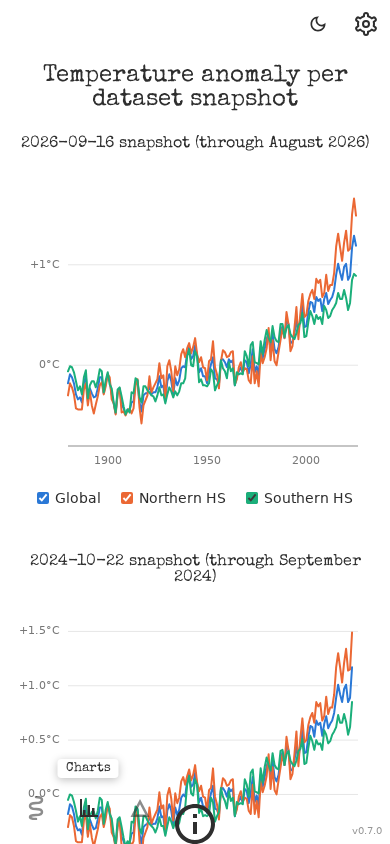
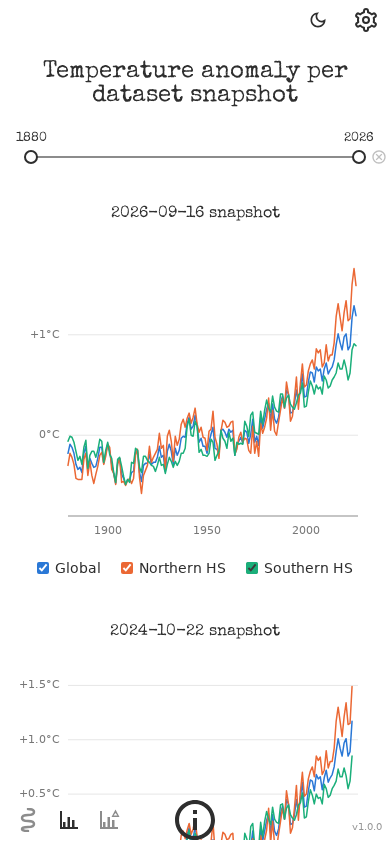
docs: README revision and scripted screenshots; version 1.0.0 (v1.0.0)
Climate Helix 1.0. The README gets new light-theme screenshots (one of
What's new), a What's new and changelog section, a Development section,
and corrections of outdated statements about the data retrieval, the
settings menus and the CI workflow.

The screenshots are now taken by a Playwright script (npm run screenshots,
playwright.screenshots.config.ts) from a production build with the full
helix mesh. A new screenshots skill says when to retake them; the release
skill points to it and gains a step for GitHub releases of major and
minor versions, after the owner's approval and a push.

diff --git a/screenshots/readme.spec.ts b/screenshots/readme.spec.ts
@@ -1,0 +1,63 @@
+import { expect, test, type Page } from '@playwright/test';
+import { APP_VERSION, openApp, openSettings, switchScene, withStoredState } from '../e2e/app';
+
+// The README screenshots, see playwright.screenshots.config.ts. A phone-sized
+// viewport, like the app is mostly used; the legend one is wider for the
+// settings panel.
+const PHONE = { width: 390, height: 844 };
+const IMAGES = 'src/images';
+
+/** Lets the helix and the charts finish drawing, with the pointer out of the way (no tooltips). */
+async function settle(page: Page): Promise<void> {
+    await page.mouse.move(0, 0);
+    await page.waitForTimeout(1000);
+}
+
+async function shoot(page: Page, name: string): Promise<void> {
+    await settle(page);
+    await page.screenshot({ path: `${IMAGES}/${name}.png` });
+}
+
+test.beforeEach(async ({ page }) => {
+    // A returning user who has seen this version, so What's new stays closed.
+    await withStoredState(page, {});
+});
+
+test('helix', async ({ page }) => {
+    await page.setViewportSize(PHONE);
+    await openApp(page);
+    await shoot(page, 'climate-helix');
+});
+
+test('legend settings', async ({ page }) => {
+    await page.setViewportSize({ width: 1200, height: 700 });
+    await openApp(page);
+    await openSettings(page);
+    const gui = page.locator('#gui');
+    await gui.locator('.lil-title', { hasText: /^View$/ }).click();
+    await gui.locator('.lil-title', { hasText: /^Legend$/ }).click();
+    await shoot(page, 'climate-helix-legend');
+});
+
+test('charts', async ({ page }) => {
+    await page.setViewportSize(PHONE);
+    await openApp(page);
+    await switchScene(page, 'Charts');
+    await shoot(page, 'climate-helix-charts');
+});
+
+test('diff', async ({ page }) => {
+    await page.setViewportSize(PHONE);
+    await openApp(page);
+    await switchScene(page, 'Diff');
+    await shoot(page, 'climate-helix-diff');
+});
+
+test('what\'s new', async ({ page }) => {
+    await page.setViewportSize(PHONE);
+    // Overrides the version seen: someone updating from v0.11.1.
+    await page.addInitScript(() => localStorage.setItem('climate-helix.state', JSON.stringify({ version: 1, lastSeenVersion: '0.11.1' })));
+    await openApp(page);
+    await expect(page.locator('.changelog h2').first()).toContainText(`v${APP_VERSION}`);
+    await shoot(page, 'climate-helix-whats-new');
+});

diff --git a/playwright.screenshots.config.ts b/playwright.screenshots.config.ts
@@ -1,0 +1,28 @@
+import { defineConfig, devices } from '@playwright/test';
+
+const PORT = 4181;
+
+/**
+ * Takes the README screenshots in src/images/ (`npm run screenshots`), in the
+ * light theme, from a production build with the full helix mesh. Not a test:
+ * the images are written over the committed ones, to be reviewed before
+ * committing them.
+ */
+export default defineConfig({
+    testDir: 'screenshots',
+    workers: 1,
+    reporter: 'list',
+    timeout: 60_000,
+    use: {
+        ...devices['Desktop Chrome'],
+        baseURL: `http://localhost:${PORT}/climate-helix/`,
+        colorScheme: 'light',
+        deviceScaleFactor: 1,
+    },
+    webServer: {
+        command: `npm run build && VITE_HTTPS=false npx vite preview --port ${PORT} --strictPort`,
+        url: `http://localhost:${PORT}/climate-helix/`,
+        reuseExistingServer: false,
+        timeout: 120_000,
+    },
+});

diff --git a/README.md b/README.md
@@ -4,7 +4,7 @@ This HTML-5 application features a 3D climate helix similar to the one shown in 
 
 Available on [Github Pages](https://mkuehne-git.github.io/climate-helix/). The application can be installed as PWA (tested on Android).
 
-The climate helix uses data from [NASA, Goddard Space Flight Center](https://data.giss.nasa.gov/gistemp/) retrieved in May-2023. You can view data for the
+The climate helix uses data from [NASA, Goddard Space Flight Center](https://data.giss.nasa.gov/gistemp/), in three retrievals (see [Dataset selector](#dataset-selector)). You can view data for the
 
 * Northern Hemisphere,
 * Southern Hemisphere,
@@ -14,7 +14,7 @@ The data starts in 1880 and, in the newest bundled snapshot, runs until August 2
 
 The use of [TrackballControls](https://threejs.org/docs/#examples/en/controls/TrackballControls) makes it possible to easily navigate through the scene, by moving around a virtual camera: drag with the left mouse button (or one finger) to rotate the helix freely in any direction, including end over end, zoom with the mouse wheel (or a pinch), and pan with the right mouse button (or two fingers). A double-click returns to the initial view. The ***View > Navigation*** section of the settings panel sets the **Rotation speed** and **Inertia**: with inertia, the helix keeps turning for a moment after a drag; without it, it stops with the pointer.
 
-The controller UI (Icon in the upper right corner) provides options to configure the image. Not only can you choose, which region of the world you want to be visualized. With the ***View*** menu item you can toggle the x/y/z axes, change the coloring, and adjust some parameters controlling the geometry. With the ***Capture*** menu you can create images and download them to your computer.
+The controller UI (Icon in the upper right corner) provides options to configure the image. Not only can you choose, which region of the world you want to be visualized. With the ***View*** menu item you can show the year range slider and the legend axes, change the colors, and adjust the geometry and navigation; the ***Animation*** menu sets up the creation animation. With the ***Screen capture*** menu you can create images and download them to your computer.
 
 # Dataset selector
 
@@ -32,11 +32,19 @@ The Play/Pause button in the top-left corner of the Helix view grows the helix m
 
 The app remembers your settings and where you left off: the dataset, region and year range, the ***View*** and ***Animation*** settings, changed helix colors, the theme (once you switch it; until then it follows your system), the active view, the camera angle and zoom, the Diff view's baseline, and the chart checkboxes. They are kept in your browser's Local Storage and never leave your device. When a newer data snapshot ships, the app opens on it instead of the snapshot you last chose. **Restore defaults** in the settings panel forgets all of this and reloads the app.
 
+# What's new and changelog
+
+![Climate-helix What's new](./src/images/climate-helix-whats-new.png)
+
+The first time the app opens after an update, it shows what's new since the version you used last. Versions without a visible change (tests, documentation) are left out, and the **Full changelog** button shows every version. It appears once per version: not again after a reload, not after **Restore defaults**, and not on your very first visit.
+
+Click the version number in the lower right corner to see the full changelog at any time. Each version lists its date and links to its commit on GitHub. Close it, like the imprint, with the X button at the bottom or with Escape. The changelog is the same as [CHANGELOG.md](CHANGELOG.md).
+
 # Legend
 
 ![Climate-helix with legend](./src/images/climate-helix-legend.png)
 
-The ***View > Legend*** section in the settings panel adds optional reference axes around the helix: a **Year axis** marking the year range along the side, a **Temperature axis** of concentric rings labeling anomaly values from -1.0°C to +1.5°C, and a **Month axis** labeling Jan/Apr/Jul/Oct around the outer rim. The number of year ticks and temperature rings shown is configurable.
+The ***View > Legend*** section in the settings panel (shown open above) adds optional reference axes around the helix: a **Year axis** marking the year range along the side, a **Temperature axis** of concentric rings labeling anomaly values from -1.0°C to +1.5°C, and a **Month axis** labeling Jan/Apr/Jul/Oct around the outer rim. The number of year ticks and temperature rings shown is configurable.
 
 # Charts
 
@@ -58,7 +66,7 @@ Three icon-buttons at the lower-left switch between equal peer scenes: **Helix**
 |---|---|
 |```h```, ```H```|Toggle visibility of control panel|
 |```Alt + s```|Take screen capture|
-|```Esc```|Close imprint dialog|
+|```Esc```|Close the imprint, the changelog or What's new|
 |```a``` + drag|Rotate the helix (like the left mouse button)|
 |```s``` + drag|Zoom (like the mouse wheel)|
 |```d``` + drag|Pan (like the right mouse button)|
@@ -66,7 +74,7 @@ Three icon-buttons at the lower-left switch between equal peer scenes: **Helix**
 
 # PWA version updates
 
-The app is shipped as a PWA and checks for newer versions after installation. When a new build is detected, the app asks for confirmation before reloading and applying the update. This is handled through the service worker lifecycle and avoids unexpected restarts during normal use.
+The app is shipped as a PWA and checks for newer versions after installation. When a new build is detected, the app asks for confirmation before reloading and applying the update. After the reload, it shows what's new in the updated version. This is handled through the service worker lifecycle and avoids unexpected restarts during normal use.
 
 If you installed the app from a supported browser such as Chrome on Android, the settings menu also includes a manual **Check for updates** action. This triggers a service worker refresh check and shows a short status message when the app is already up to date or when a new version is available.
 
@@ -74,11 +82,27 @@ If you installed the app from a supported browser such as Chrome on Android, the
 
 Dependency updates are handled through GitHub Dependabot for npm packages. The repository is configured to check for weekly updates, keep runtime and build-tooling packages grouped, and keep the update noise focused on the packages that matter most for the app.
 
-Every dependency-related pull request is validated in GitHub Actions through a dedicated workflow that installs dependencies with `npm ci` and runs the production build with `npm run build`. This keeps routine upgrade PRs from landing without a fresh compile check.
+Every push to `main` and every pull request, including Dependabot's, runs the CI workflow in GitHub Actions: it installs the dependencies with `npm ci`, runs the unit tests and a production build on Node 24. It does not deploy. Dependabot also keeps the workflow's GitHub Actions up to date.
 
-The automation is configured in [.github/dependabot.yml](.github/dependabot.yml) and [.github/workflows/dependency-check.yml](.github/workflows/dependency-check.yml).
+The automation is configured in [.github/dependabot.yml](.github/dependabot.yml) and [.github/workflows/ci.yml](.github/workflows/ci.yml).
 
 Major framework upgrades are still reviewed manually, especially for Vite, Three.js and the PWA plugin, because those are the most likely to affect app behavior or service-worker behavior.
+
+# Development
+
+Climate Helix is built with Vite and TypeScript and needs Node.js 24 (see `.nvmrc`).
+
+```sh
+npm install         # install dependencies
+npm run dev         # development server (HTTPS with a self-signed certificate)
+npm run dev:http    # the same over HTTP, if the browser rejects the certificate
+npm run build       # production build in dist/
+npm test            # unit and component tests (Vitest)
+npm run test:e2e    # end-to-end tests in Chromium and Firefox (Playwright)
+npm run screenshots # retake the screenshots in this README (light theme)
+```
+
+The tests are described in [TESTING.md](TESTING.md), the changes of each version in [CHANGELOG.md](CHANGELOG.md).
 
 # References
 

diff --git a/TESTING.md b/TESTING.md
@@ -75,7 +75,7 @@ Playwright, run locally with `npm run test:e2e`. `playwright.config.ts` builds t
 - **4 workers.** More parallel pages mostly cause timeouts; the suite takes about 30 seconds.
 - **Browsers.** Chromium and Firefox, installed once with `npx playwright install chromium firefox`.
 - **Imprint.** The imprint tests need the private `src/imprint-gen.js`; with the CI stub there is no imprint to show.
-- **Helpers.** `e2e/app.ts` opens the app (collecting console errors), switches scenes and moves the year sliders.
+- **Helpers.** `e2e/app.ts` opens the app (collecting console errors), switches scenes and moves the year sliders. `withStoredState()` starts the app with a remembered state that has seen the current version, so What's new stays closed; use it rather than writing `climate-helix.state` directly.
 
 - The app loads without console errors, and the helix title matches the selected dataset and region.
 - Dataset buttons and the region selector redraw the helix; the info panel's end date matches.
@@ -83,6 +83,7 @@ Playwright, run locally with `npm run test:e2e`. `playwright.config.ts` builds t
 - The imprint opens from the settings panel; the fixed X closes it at desktop and phone size, and after a burst of window resizes.
 - The theme switcher changes the theme, and the info panel opens and closes.
 - The service worker registers in the production build.
+- The version label opens the changelog, which closes with the X button and Escape (v0.12.0); What's new appears once after an update, not for new visitors, and leads to the full changelog (v0.13.0).
 
 No screenshot comparisons of the helix: WebGL output varies too much between machines. Screenshot checks for the SVG charts can be added later if needed.
 
@@ -96,5 +97,11 @@ No screenshot comparisons of the helix: WebGL output varies too much between mac
 4. `npm run build`
 
 It replaces the former `dependency-check.yml`, which only ran for dependency changes, on Node 20. It does not deploy: deployment stays a manual `deploy.sh` run (see `ROADMAP.md`). Dependabot groups the test tools (`vitest`, `happy-dom`, `@playwright/test`) in a `test-tooling` group; after a Playwright update, run `npx playwright install chromium firefox` locally.
+
+## README screenshots (v1.0.0)
+
+`npm run screenshots` retakes the images in `src/images/` with Playwright (`playwright.screenshots.config.ts`, specs in `screenshots/`): a production build with the full helix mesh on port 4181, Chromium, light theme, mostly at phone size (390 x 844). They are documentation, not tests, and are not compared with earlier images; review them before committing. The `screenshots` skill (`.claude/skills/screenshots/`) says when to retake them.
+
+## CI and Playwright
 
 Playwright stays local for now. Adding it to CI later means installing only Chromium and Firefox (`npx playwright install --with-deps chromium firefox`), at roughly 1 to 2 extra minutes per run.

diff --git a/.claude/skills/release/SKILL.md b/.claude/skills/release/SKILL.md
@@ -30,7 +30,8 @@ Run in this order and report failures with their output - do not commit around t
 1. `npm test` (Vitest unit and component tests).
 2. `npm run build`. The two pre-existing warnings are expected: the `configLoader: 'native'` notice about `vite.config.ts`, and Node's `ExperimentalWarning`.
 3. `npm run test:e2e` when the change touches the UI, `main.ts`, `Settings.ts`, a scene, CSS, the service worker or `vite.config.ts`. It builds with `VITE_E2E=true` (lighter helix mesh), so **run `npm run build` again afterwards** - otherwise `dist/` holds the test build, and `deploy.sh` could publish it if it ever stops rebuilding.
-4. For visual changes, say what still needs a manual look in a real browser (light and dark theme, phone width, Firefox), as `CLAUDE.md` asks.
+4. For visible UI changes, retake the README screenshots (the `screenshots` skill) if they show the changed part.
+5. For visual changes, say what still needs a manual look in a real browser (light and dark theme, phone width, Firefox), as `CLAUDE.md` asks.
 
 ## 4. Check the working tree
 
@@ -45,3 +46,19 @@ Summarize what the commit contains and ask the project owner for approval. Only 
 - Stage the files by name (no `git add -A`).
 - Message: `type: summary (vX.Y.Z)` with `type` one of `feat`, `fix`, `test`, `docs`, `refactor`, `chore`; then a body explaining what and why; then the co-author trailer from the current session's instructions.
 - Do not push, tag or deploy unless asked. `deploy.sh` force-pushes to GitHub Pages.
+
+## 6. GitHub release (major and minor versions only)
+
+A GitHub release is a page on GitHub attached to a git tag, with release notes and source archives. It deploys nothing: the site comes from the `gh-pages` branch that `deploy.sh` pushes. Every commit here is a version, so releases are made only for major and minor versions (`x.0.0`, `x.y.0`), never for patches.
+
+Creating a release is public, so offer it after the commit and ask the project owner each time. Only after an explicit yes, in this order:
+
+1. **Push** `main` (`git push`). The changelog links to commits on GitHub, and those links return 404 until the commits are pushed.
+2. **Deploy**, if the owner wants the release to match the live site: `deploy.sh`, as described in `CLAUDE.md` - only when asked.
+3. **Release notes**: the version's `CHANGELOG.md` entry without its heading, written to a scratchpad file.
+4. **Create** the tag and the release in one step, on the pushed commit:
+   `gh release create vX.Y.Z --target main --title "Climate Helix X.Y.Z" --notes-file <notes>`
+   This creates the tag `vX.Y.Z` on GitHub; run `git fetch --tags` afterwards to have it locally.
+5. Report the release URL that `gh` prints.
+
+If `gh` is not installed or not logged in (`gh auth status`), say so and give the owner the command instead of working around it.

diff --git a/.claude/skills/screenshots/SKILL.md b/.claude/skills/screenshots/SKILL.md
@@ -1,0 +1,46 @@
+---
+name: screenshots
+description: Retake the Climate Helix README screenshots in src/images/ with Playwright (npm run screenshots), review them and update the README if a view was added or renamed. Use after visible UI changes, before a major or minor release, or when asked to update, refresh or retake screenshots.
+---
+
+# Screenshots
+
+The README shows five screenshots in `src/images/`. `npm run screenshots` retakes them all with Playwright (`playwright.screenshots.config.ts`, specs in `screenshots/readme.spec.ts`), always in the light theme.
+
+| Image | Shows | Viewport |
+| --- | --- | --- |
+| `climate-helix.png` | Helix view, default settings | 390 x 844 |
+| `climate-helix-legend.png` | Helix with the settings panel open at View > Legend | 1200 x 700 |
+| `climate-helix-charts.png` | Charts view | 390 x 844 |
+| `climate-helix-diff.png` | Diff view | 390 x 844 |
+| `climate-helix-whats-new.png` | What's new, as seen when updating from v0.11.1 | 390 x 844 |
+
+## 1. When
+
+- A visible change to a view, control or dialog that a screenshot shows.
+- A version bump that the screenshots should show: the version label is in most images. Retake them **after** updating `package.json`.
+- Not for every patch release: an outdated version label alone is no reason.
+
+## 2. Take
+
+1. Update `package.json` first if the version changes in this commit.
+2. `npm run screenshots`. It builds a production build (full helix mesh, unlike the e2e tests' `VITE_E2E` build), serves it on port 4181 and writes the images over the committed ones. The build leaves `dist/` as a normal production build.
+3. Headless Chromium renders WebGL in software; a run takes about half a minute.
+
+## 3. Review
+
+Open every changed image (the Read tool shows images) and check:
+
+- No tooltip, hover highlight, animation frame or half-drawn chart.
+- What's new shows the current version on top.
+- The version label shows the new version.
+
+`git status` shows which images changed. Revert images that changed only by rendering noise, unless the version label differs.
+
+## 4. Adjust
+
+- **A new view or dialog to show**: add a test to `screenshots/readme.spec.ts`, reference the image in `README.md`, and add it to the table above.
+- **A step fails** (a selector changed): fix the spec with the same selectors as the e2e tests in `e2e/app.ts`.
+- **Dark theme screenshots** are not taken; the owner chose the light theme.
+
+Commit the images with the change, following the `release` skill.

diff --git a/CLAUDE.md b/CLAUDE.md
@@ -17,6 +17,7 @@ npm run serve     # preview the production build
 npm test          # run the unit tests (Vitest)
 npm run test:watch # run the unit tests in watch mode
 npm run test:e2e  # build and run the Playwright end-to-end tests (Chromium, Firefox)
+npm run screenshots # retake the README screenshots in src/images/ (light theme)
 ```
 
 The default development server uses HTTPS with a local self-signed certificate. If the browser cannot trust that certificate, use `npm run dev:http` and open `http://127.0.0.1:5173/` instead.
@@ -30,7 +31,7 @@ The project uses the current Active LTS release of Node.js: Node 24 (24.21.0 loc
 - When adding or upgrading a dev dependency, check its `engines` field against that version.
 - Revisit this when a newer LTS starts (Node 26 in October 2026) and when the used one reaches end of life: update `.nvmrc`, the workflow and, if needed, `engines` together.
 
-Unit tests live in `test/` and run with `npm test`; the test plan and its remaining phases are described in `TESTING.md`. There is no lint script. End-to-end tests live in `e2e/` and run locally with `npm run test:e2e` (not in CI); run them after UI changes. After changes, run `npm test` and `npm run build`, and manually verify the app in a browser. Check the helix, region selector, theme switcher, settings controls, info/imprint dialogs, and screen capture behavior when those areas are affected.
+Unit tests live in `test/` and run with `npm test`; the test plan and its remaining phases are described in `TESTING.md`. There is no lint script. End-to-end tests live in `e2e/` and run locally with `npm run test:e2e` (not in CI); run them after UI changes. After visible UI changes, retake the README screenshots with the `screenshots` skill (`.claude/skills/screenshots/`). After changes, run `npm test` and `npm run build`, and manually verify the app in a browser. Check the helix, region selector, theme switcher, settings controls, info/imprint dialogs, and screen capture behavior when those areas are affected.
 
 ## Versioning
 

diff --git a/ROADMAP.md b/ROADMAP.md
@@ -8,6 +8,15 @@ No open priorities.
 
 ## Completed
 
+### Changelog and What's new (v0.12.0, v0.13.0)
+
+The version label opens `CHANGELOG.md` as a full page, and after an update the app shows the news since the version used last, once.
+
+- **Changelog format**: each heading reads `## vX.Y.Z · YYYY-MM-DD · [hash](commit URL)`. A commit cannot contain its own hash, so the newest entry gets it with the next release; until then the build adds `HEAD`'s hash to the app's copy (`changelogCommit` in `vite.config.ts`). The headings before v0.12.0 were filled in from the commits that set each version in `package.json`; v0.5.7 and v0.7.0 had no commit of their own and name the commit they were shipped in.
+- **Rendering** (`src/changelogFormat.ts`): a small parser for the Markdown the changelog uses, no dependency. The file is loaded on demand in its own chunk and precached for offline use.
+- **Overlay** (`src/OverlayPage.ts`): shared with the imprint - X button at the info button's position, Escape in the capture phase.
+- **What's new** (`src/WhatsNew.ts`): `lastSeenVersion` in the persistent state, set as soon as the news are shown. New visitors see nothing; users from before v0.13.0 without a stored version count as coming from v0.11.1. Entries marked "No functional change." are left out. Restore defaults keeps the version. Play on start waits until it is closed.
+
 ### Remembered settings (v0.11.0)
 
 The settings and application state are kept across reloads, and **Restore defaults** in the settings panel resets them.

diff --git a/CHANGELOG.md b/CHANGELOG.md
@@ -1,6 +1,13 @@
 # Changelog
 
-## v0.13.0 · 2026-09-26
+## v1.0.0 · 2026-09-26
+
+Climate Helix 1.0. The app shows NASA GISS temperature anomalies from 1880 to August 2026 as a 3D helix for the globe and both hemispheres, from three data snapshots. You can narrow the years, add a legend, let the helix grow month by month, and compare the snapshots in the Charts and Diff views. It remembers your settings, can be installed and works offline. After an update, it shows what's new, and the version number in the lower right corner opens the full changelog.
+
+* Revise the README: new screenshots in the light theme (one of What's new), a section on What's new and the changelog, a Development section with the npm scripts, and corrected outdated statements about the data retrieval, the settings menus and the CI workflow.
+* Retake the README screenshots with a script, `npm run screenshots`, instead of by hand.
+
+## v0.13.0 · 2026-09-26 · [326a0c7](https://github.com/mkuehne-git/climate-helix/commit/326a0c7)
 
 * Show what's new after an update: the first time the app opens in a new version, it lists the changes since the version used last (without test- and docs-only versions), with a button to show the full changelog. It closes like the changelog, and Play on start waits until it is closed. New visitors don't see it, and ***Restore defaults*** does not bring it back.
 
